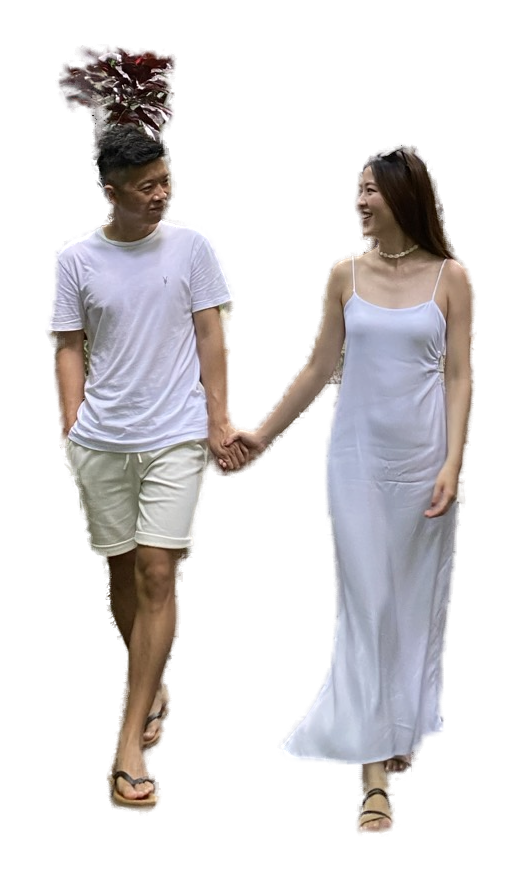
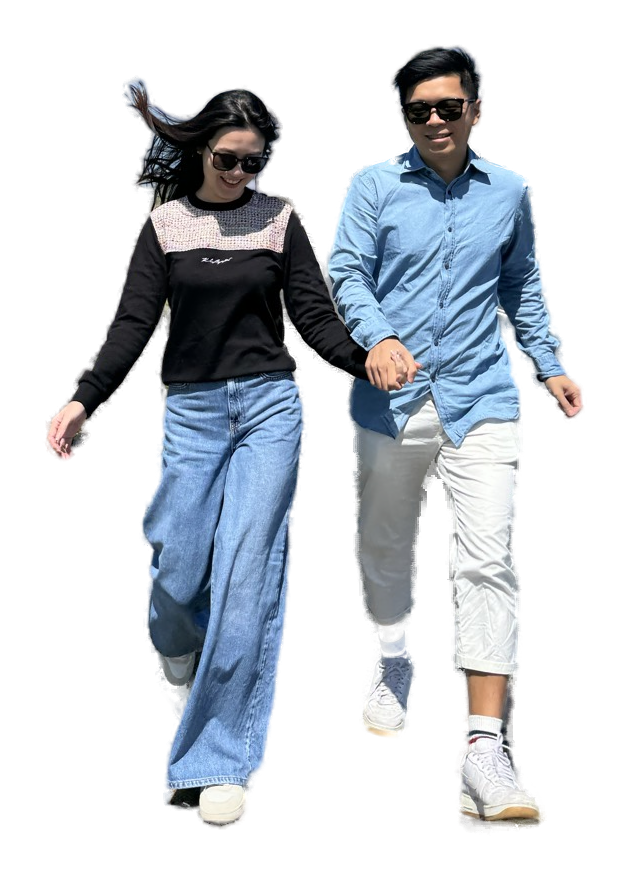
Hero: switch cut-out to photo-011 (fuller framing, cleaner edges)

diff --git a/enhance.js b/enhance.js
@@ -213,7 +213,7 @@
       // remove the empty spacer block under 'How it all started'
       ".framer-xwh9m6{display:none!important}",
       // hero photo: custom ARCH shape (replaces the standing-couple silhouette mask)
-      ".framer-1ns6yyg{flex:none!important;width:clamp(220px,32vw,360px)!important;max-width:none!important;height:auto!important;aspect-ratio:0.593!important;-webkit-mask:none!important;mask:none!important;overflow:visible!important;border-radius:0!important;box-shadow:none!important;background-image:url('images/hero-cutout.png')!important;background-size:contain!important;background-position:bottom center!important;background-repeat:no-repeat!important}",
+      ".framer-1ns6yyg{flex:none!important;width:clamp(220px,32vw,360px)!important;max-width:none!important;height:auto!important;aspect-ratio:0.719!important;-webkit-mask:none!important;mask:none!important;overflow:visible!important;border-radius:0!important;box-shadow:none!important;background-image:url('images/hero-cutout.png')!important;background-size:contain!important;background-position:bottom center!important;background-repeat:no-repeat!important}",
       ".framer-1ns6yyg img,.framer-1ns6yyg [data-framer-background-image-wrapper]{opacity:0!important}",
       // keep the title above the photo arch so 'Save the date' isn't blocked
       ".framer-1rgcutd{position:relative!important;z-index:10!important}",